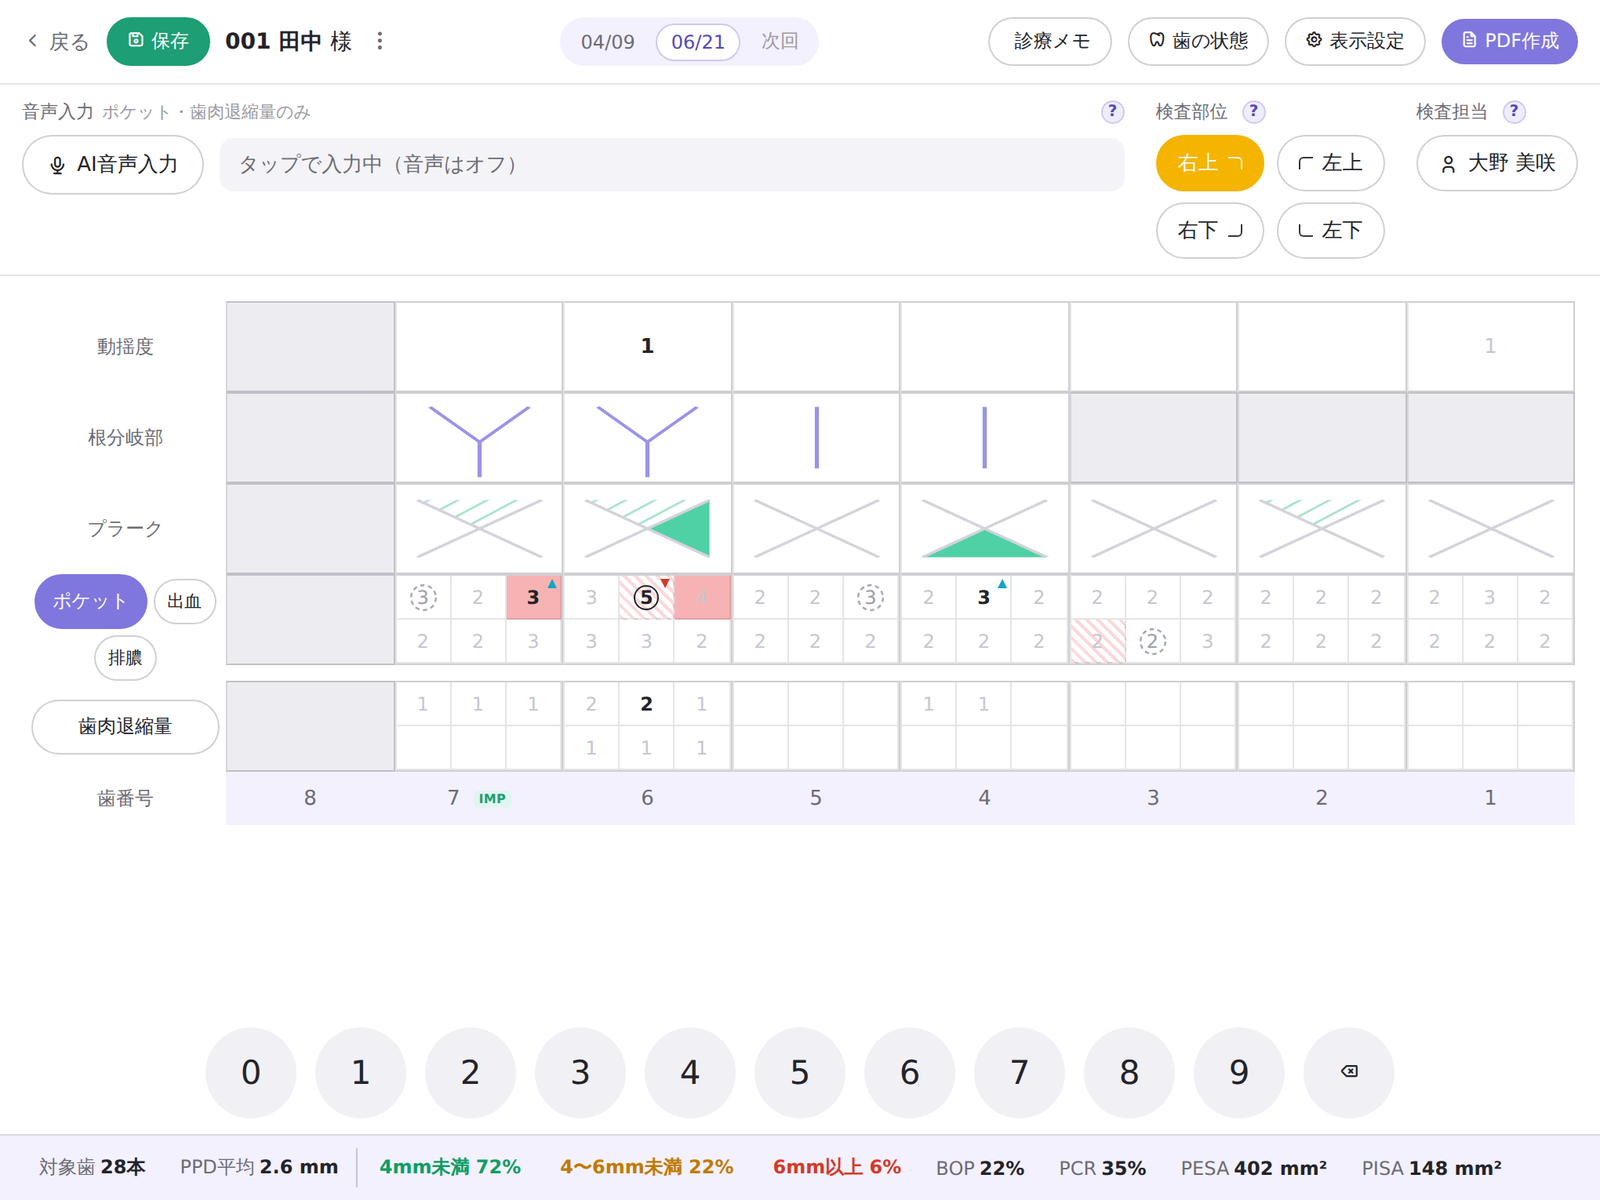
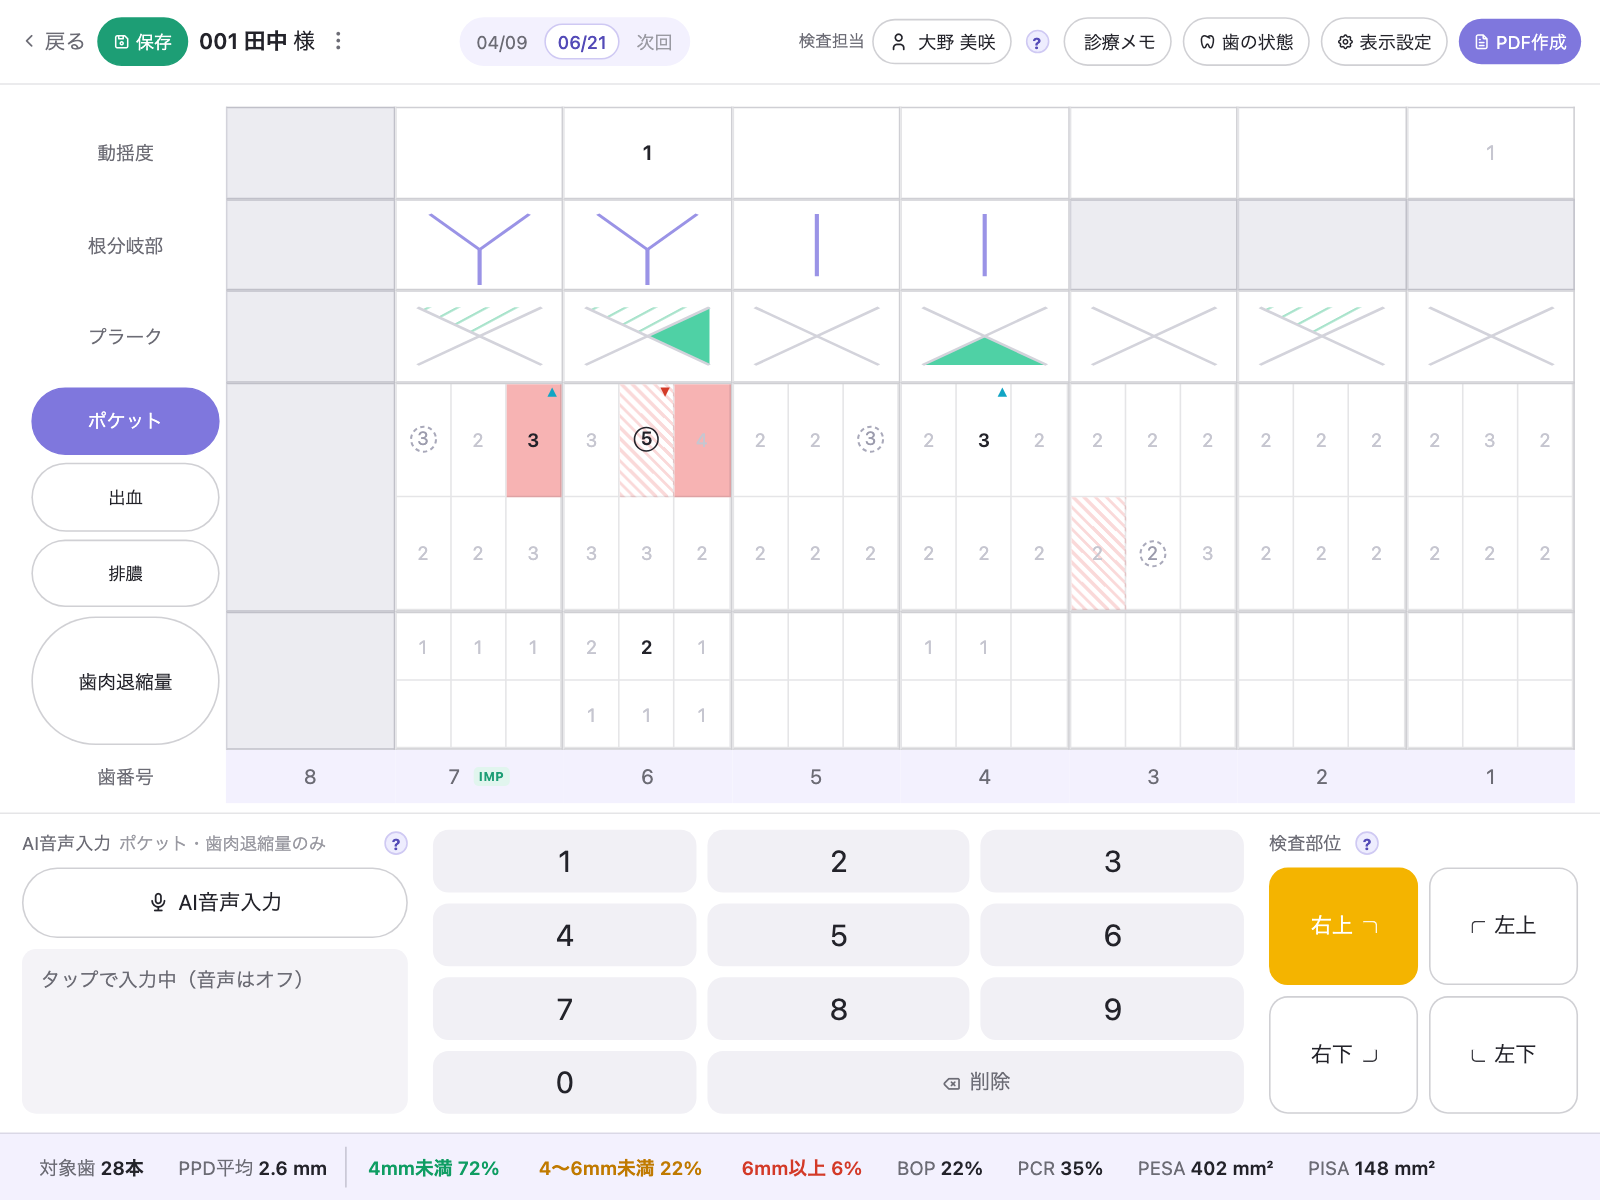
デモのキャプチャ10点を最新の画面に差し替え、患者詳細の説明文を更新
- 検査画面の刷新後（上=検査表／下=音声・テンキー・検査部位／最下部=集計バー）を撮り直し
- 患者詳細は廣田氏レビュー反映後（カルテ番号を主役・表示する検査項目のバー・検査画面と同じ検査表）
- 患者詳細の説明文から「展開すると検査表」「右の指標の推移」を削除し、現在の仕様に合わせた

diff --git a/index.html b/index.html
@@ -612,9 +612,9 @@ footer ul .soon-li{color:var(--hint)}footer ul .soon-li small{font-size:9.5px;bo
     </div>
     <div class="twoshot">
       <div>
-        <div class="ipad sm"><img src="img/dm_stream.png" alt="患者詳細画面。来院ごとの検査結果が縦に並び、PPD平均・BOP・PCR・4mm以上と検査表が表示されている" loading="lazy"></div>
+        <div class="ipad sm"><img src="img/dm_stream.png" alt="患者詳細画面。来院ごとの検査結果が縦に並び、PPD平均・BOP・PCR・4mm以上と、検査画面と同じ見た目の検査表が表示されている" loading="lazy"></div>
         <h4>患者詳細（巻物）</h4>
-        <p>来院ごとに PPD平均・BOP・PCR・4mm以上を表示。展開すると検査表まで見られます。右には指標の推移、左には来院日のミニマップ。</p>
+        <p>来院ごとに PPD平均・BOP・PCR・4mm以上と検査表を表示。検査表は検査画面と同じ見た目なので、開き直さずそのまま読めます。出す項目は上のボタンで切り替え。左には来院日のミニマップ。</p>
       </div>
       <div>
         <div class="ipad sm"><img src="img/dm_search.png" alt="患者検索画面。カルテ番号・患者名・来院日で検索し、最終診療日つきの結果が並ぶ" loading="lazy"></div>
